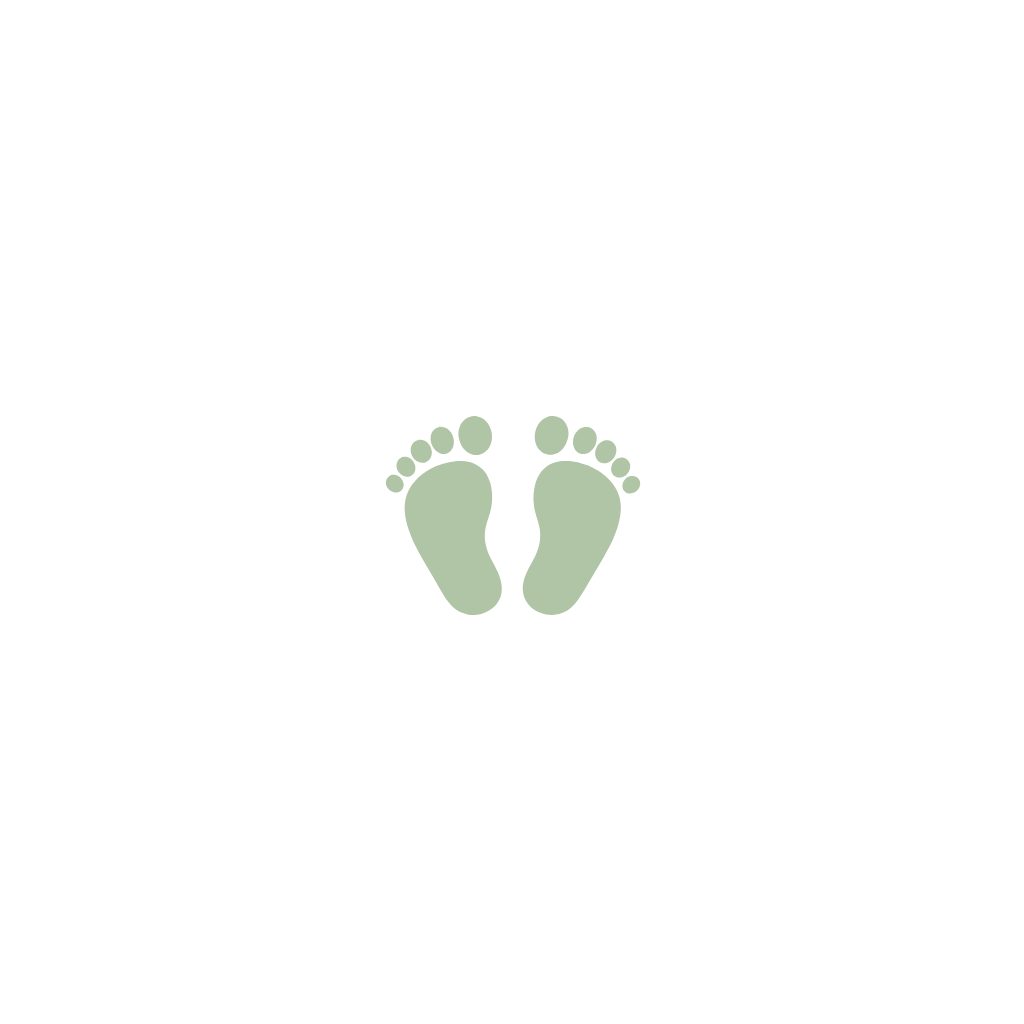
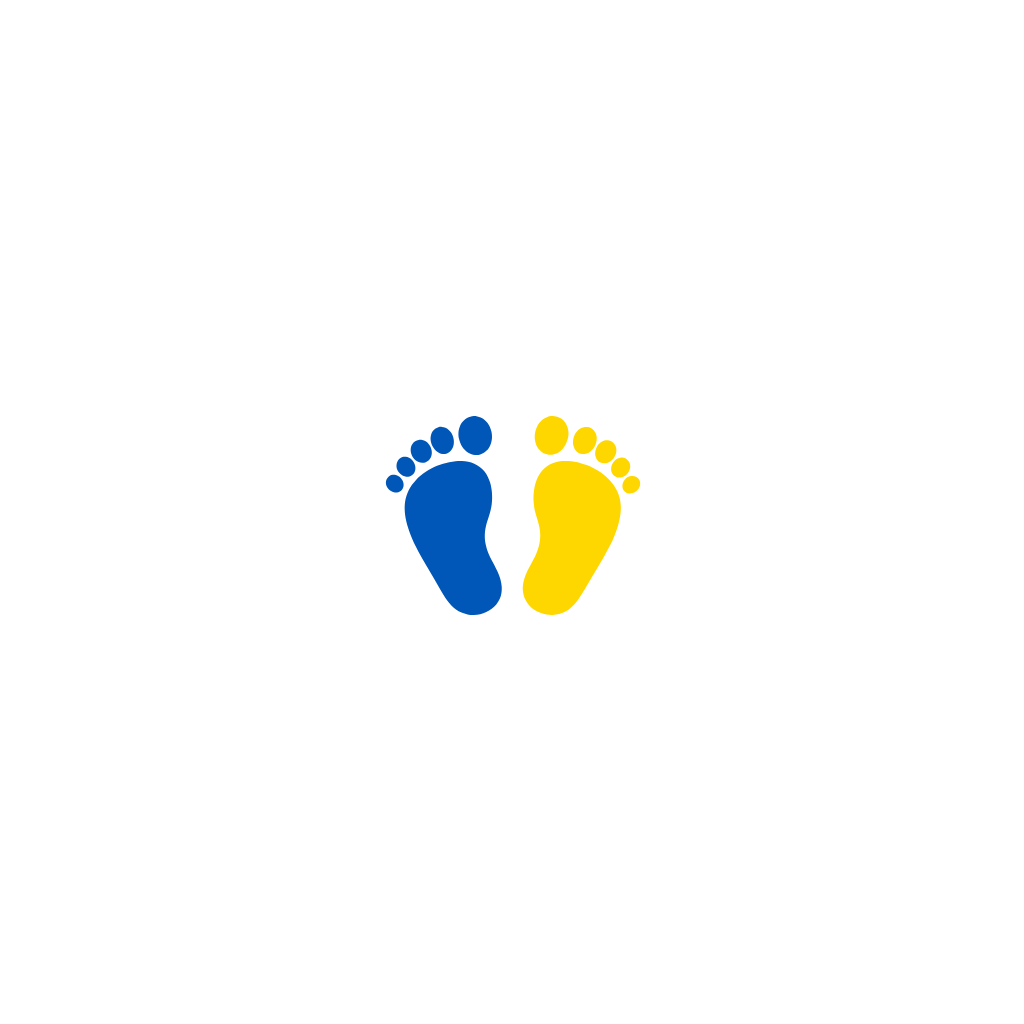
feat(brand): иконка — ножки в цветах флага Украины
Левая нога синяя #0057B7, правая жёлтая #FFD700. Порядок выбран сравнением
вариантов: жёлтая впереди перетягивает взгляд и флаг разваливается.
Белый по-прежнему закреплён за контуром ромба, фон плитки #6C8265 не менялся.

Новый эталон design/icon-concepts/sage-r8-ua.svg, монохромный sage-r7-family.svg
остаётся как предыдущий канон. Пересобраны icon/adaptive-icon/splash-icon
из brand.html и store-иконки 1024/512.

Changed region(s): [[0.375, 0.4062, 0.625, 0.625]]

diff --git a/design/icon-concepts/README.md b/design/icon-concepts/README.md
@@ -174,7 +174,10 @@
 Ножки при штрихе 96 помещаются без перерисовки: занимают 267 единиц из 273 доступных.
 В исходнике даны `scale(0.94)` — только на воздух.
 
-Канон: `sage-r7-family.svg`. Сборка: `mobile/scripts/brand.html` → `python3 scripts/shoot-brand.py`.
+Канон: `sage-r8-ua.svg` (26.08) — ножки в цветах флага Украины, левая синяя `#0057B7`,
+правая жёлтая `#FFD700`. Порядок «синяя слева» выбран сравнением: жёлтая впереди перетягивает
+взгляд и флаг разваливается. Предыдущий монохромный канон — `sage-r7-family.svg`.
+Сборка: `mobile/scripts/brand.html` → `python3 scripts/shoot-brand.py`.
 Плитка `#6C8265` и `adaptiveIcon.backgroundColor` не менялись.
 
 ⚠ Открыто: в 28 px пальчики схлопываются в крапинки — у AG и Gymbar внутри простая
